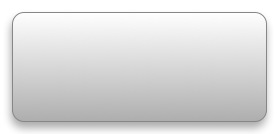
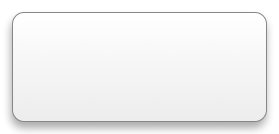
Fonts and colors

diff --git a/HabraDash.dcproj/project/widget.wdgt/main.html b/HabraDash.dcproj/project/widget.wdgt/main.html
@@ -12,15 +12,14 @@
 </head>
 <body onload="load();" apple-part="com.apple.Dashcode.part.StackLayout">
     <div id="front">
-        <img id="frontImg" src="Parts/Images/front.png" alt="" apple-locked="true" apple-part="com.apple.Dashcode.part.frontimage" apple-style="image-theme: 1; image-shape: 3; image-opacity: 1.00; image-top-color: 1.0000,1.0000,1.0000; image-bottom-color: 0.6154,0.6154,0.6154; image-radius: 12,12,12,12; image-border: 1; image-border-color: 0.5294,0.5294,0.5294; image-border-width: 1; shine-strength: 0.9; shine-alpha-level: 0.67; shine-height: 0.50; glass-arc-height: 0.06; shadow-include-shadow: 1; shadow-blur: 9.00; shadow-offset: -1.00,-6.00; shadow-color: 0.0000,0.0000,0.0000,0.3333;">
+        <img id="frontImg" src="Parts/Images/front.png" alt="" apple-locked="true" apple-part="com.apple.Dashcode.part.frontimage" apple-style="image-theme: 1; image-shape: 3; image-opacity: 1.00; image-top-color: 1,1,1,1; image-bottom-color: 0.909305696,0.909305696,0.909305696,1; image-radius: 12,12,12,12; image-border: 1; image-border-color: 0.5294,0.5294,0.5294,1; image-border-width: 1; shine-strength: 0.90; shine-alpha-level: 0.67; shine-height: 0.50; glass-arc-height: 0.06; shadow-include-shadow: 1; shadow-offset: -1.00,-6.00; shadow-color: 0,0,0,0.3333;">
         <div class="apple-no-children" id="info" apple-part="com.apple.Dashcode.part.infobutton" apple-default-image-visibility="hidden"></div>
-        <div id="userCaption" apple-part="com.apple.Dashcode.part.text" class="apple-text apple-no-children" apple-default-image-visibility="hidden" apple-text-overflow="ellipsis" apple-style="part-height-dependent: true;part-width-dependent: true;"></div>
-        <div id="karmaCaption" apple-part="com.apple.Dashcode.part.text" class="apple-text apple-no-children" apple-default-image-visibility="hidden" apple-text-overflow="ellipsis" apple-style="part-height-dependent: true;part-width-dependent: true;"></div>
+        <div id="karmaCaption" apple-part="com.apple.Dashcode.part.text" class="apple-text apple-no-children" apple-default-image-visibility="hidden" apple-text-overflow="ellipsis"></div>
         <div id="ratingCaption" apple-part="com.apple.Dashcode.part.text" class="apple-text apple-no-children" apple-default-image-visibility="hidden" apple-text-overflow="ellipsis" apple-style="part-height-dependent: true;part-width-dependent: true;"></div>
         <div id="positionCaption" apple-part="com.apple.Dashcode.part.text" class="apple-text apple-no-children" apple-default-image-visibility="hidden" apple-text-overflow="ellipsis" apple-style="part-height-dependent: true;part-width-dependent: true;"></div>
         <div id="position" apple-part="com.apple.Dashcode.part.text" class="apple-text apple-no-children" apple-default-image-visibility="hidden" apple-text-overflow="ellipsis" apple-style="part-height-dependent: true;part-width-dependent: true;"></div>
-        <div id="rating" apple-part="com.apple.Dashcode.part.text" class="apple-text apple-no-children" apple-default-image-visibility="hidden" apple-text-overflow="ellipsis" apple-style="part-height-dependent: true;part-width-dependent: true;"></div>
-        <div id="karma" apple-part="com.apple.Dashcode.part.text" class="apple-text apple-no-children" apple-text-overflow="ellipsis" apple-style="part-height-dependent: true;part-width-dependent: true;" apple-default-image-visibility="hidden"></div>
+        <div id="rating" apple-part="com.apple.Dashcode.part.text" class="apple-text apple-no-children" apple-default-image-visibility="hidden" apple-text-overflow="ellipsis"></div>
+        <div id="karma" apple-part="com.apple.Dashcode.part.text" class="apple-text apple-no-children" apple-text-overflow="ellipsis" apple-default-image-visibility="hidden"></div>
         <div id="userName" apple-part="com.apple.Dashcode.part.text" class="apple-text apple-no-children" apple-default-image-visibility="hidden" apple-text-overflow="ellipsis" apple-style="part-height-dependent: true;"></div>
     </div>
     <div id="back">

diff --git a/HabraDash.dcproj/project/widget.wdgt/main.css b/HabraDash.dcproj/project/widget.wdgt/main.css
@@ -79,34 +79,18 @@ body {
     color: white;
 }
 
-#userCaption {
-    font-size: 13px;
-    font-family: 'Lucida Grande', Arial, sans-serif;
-    text-overflow: ellipsis;
-    overflow: hidden;
-    position: absolute;
-    margin-top: 0px;
-    top: 25px;
-    left: 27px;
-    width: auto;
-    height: auto;
-}
-
-.selected #userCaption {
-    color: white;
-}
-
 #karmaCaption {
-    font-size: 13px;
     font-family: 'Lucida Grande', Arial, sans-serif;
     text-overflow: ellipsis;
     overflow: hidden;
     position: absolute;
     margin-top: 0px;
-    top: 48px;
-    left: 27px;
+    color: rgb(102, 204, 102);
+    top: 38px;
+    left: 56px;
     width: auto;
     height: auto;
+    font-size: 10px;
 }
 
 .selected #karmaCaption {
@@ -114,16 +98,17 @@ body {
 }
 
 #ratingCaption {
-    font-size: 13px;
     font-family: 'Lucida Grande', Arial, sans-serif;
     text-overflow: ellipsis;
     overflow: hidden;
     position: absolute;
     margin-top: 0px;
-    left: 27px;
-    top: 72px;
+    color: rgb(204, 102, 204);
+    left: 165px;
+    top: 38px;
     width: auto;
     height: auto;
+    font-size: 10px;
 }
 
 .selected #ratingCaption {
@@ -137,10 +122,11 @@ body {
     overflow: hidden;
     position: absolute;
     margin-top: 0px;
-    left: 27px;
+    color: rgb(102, 102, 102);
+    top: 100px;
+    left: 135px;
     width: auto;
     height: auto;
-    top: 93px;
 }
 
 .selected #positionCaption {
@@ -154,10 +140,11 @@ body {
     overflow: hidden;
     position: absolute;
     margin-top: 0px;
-    left: 87px;
+    color: rgb(102, 102, 102);
+    left: 207px;
+    top: 100px;
     width: auto;
     height: auto;
-    top: 93px;
 }
 
 .selected #position {
@@ -165,16 +152,18 @@ body {
 }
 
 #rating {
-    font-size: 13px;
-    font-family: 'Lucida Grande', Arial, sans-serif;
     text-overflow: ellipsis;
     overflow: hidden;
     position: absolute;
     margin-top: 0px;
+    color: rgb(204, 102, 204);
+    font-weight: bold;
+    font-family: 'Lucida Grande';
+    top: 55px;
+    left: 182px;
     width: auto;
     height: auto;
-    top: 72px;
-    left: 87px;
+    font-size: 36px;
 }
 
 .selected #rating {
@@ -182,16 +171,18 @@ body {
 }
 
 #karma {
-    font-size: 13px;
-    font-family: 'Lucida Grande', Arial, sans-serif;
     text-overflow: ellipsis;
     overflow: hidden;
     position: absolute;
     margin-top: 0px;
-    left: 87px;
+    color: rgb(102, 204, 102);
+    font-weight: bold;
+    font-family: 'Lucida Grande';
+    left: 73px;
+    top: 55px;
     width: auto;
     height: auto;
-    top: 48px;
+    font-size: 36px;
 }
 
 .selected #karma {
@@ -199,19 +190,21 @@ body {
 }
 
 #userName {
-    font-size: 13px;
-    font-family: 'Lucida Grande', Arial, sans-serif;
     text-overflow: ellipsis;
     overflow: hidden;
     position: absolute;
     margin-top: 0px;
-    left: 87px;
-    top: 25px;
-    right: 22px;
-    width: auto;
-    height: auto;
     text-shadow: none;
     white-space: nowrap;
+    font-size: 16px;
+    font-weight: bold;
+    font-family: 'Lucida Grande';
+    left: 27px;
+    top: 21px;
+    right: 26px;
+    width: auto;
+    height: auto;
+    text-align: center;
 }
 
 .selected #userName {

diff --git a/HabraDash.dcproj/project/widget.wdgt/Parts/setup.js b/HabraDash.dcproj/project/widget.wdgt/Parts/setup.js
@@ -15,7 +15,6 @@ var dashcodePartSpecs = {
     "positionCaption": { "text": "Position:", "view": "DC.Text" },
     "rating": { "text": "0", "view": "DC.Text" },
     "ratingCaption": { "text": "Rating:", "view": "DC.Text" },
-    "userCaption": { "text": "User: ", "view": "DC.Text" },
     "userName": { "text": "<none>", "view": "DC.Text" }
 };
 
